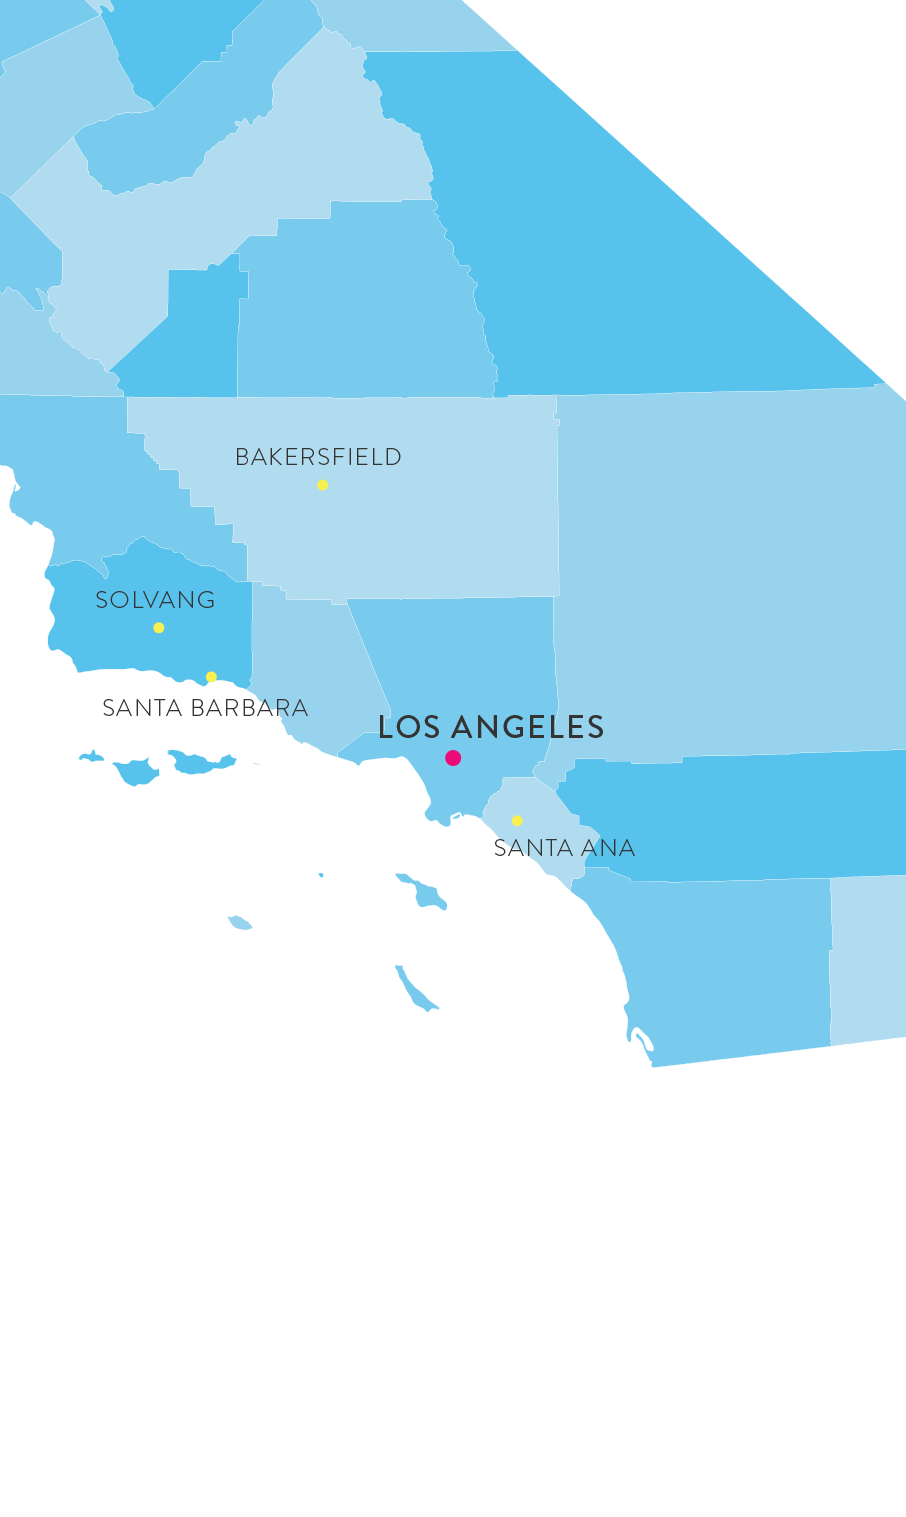
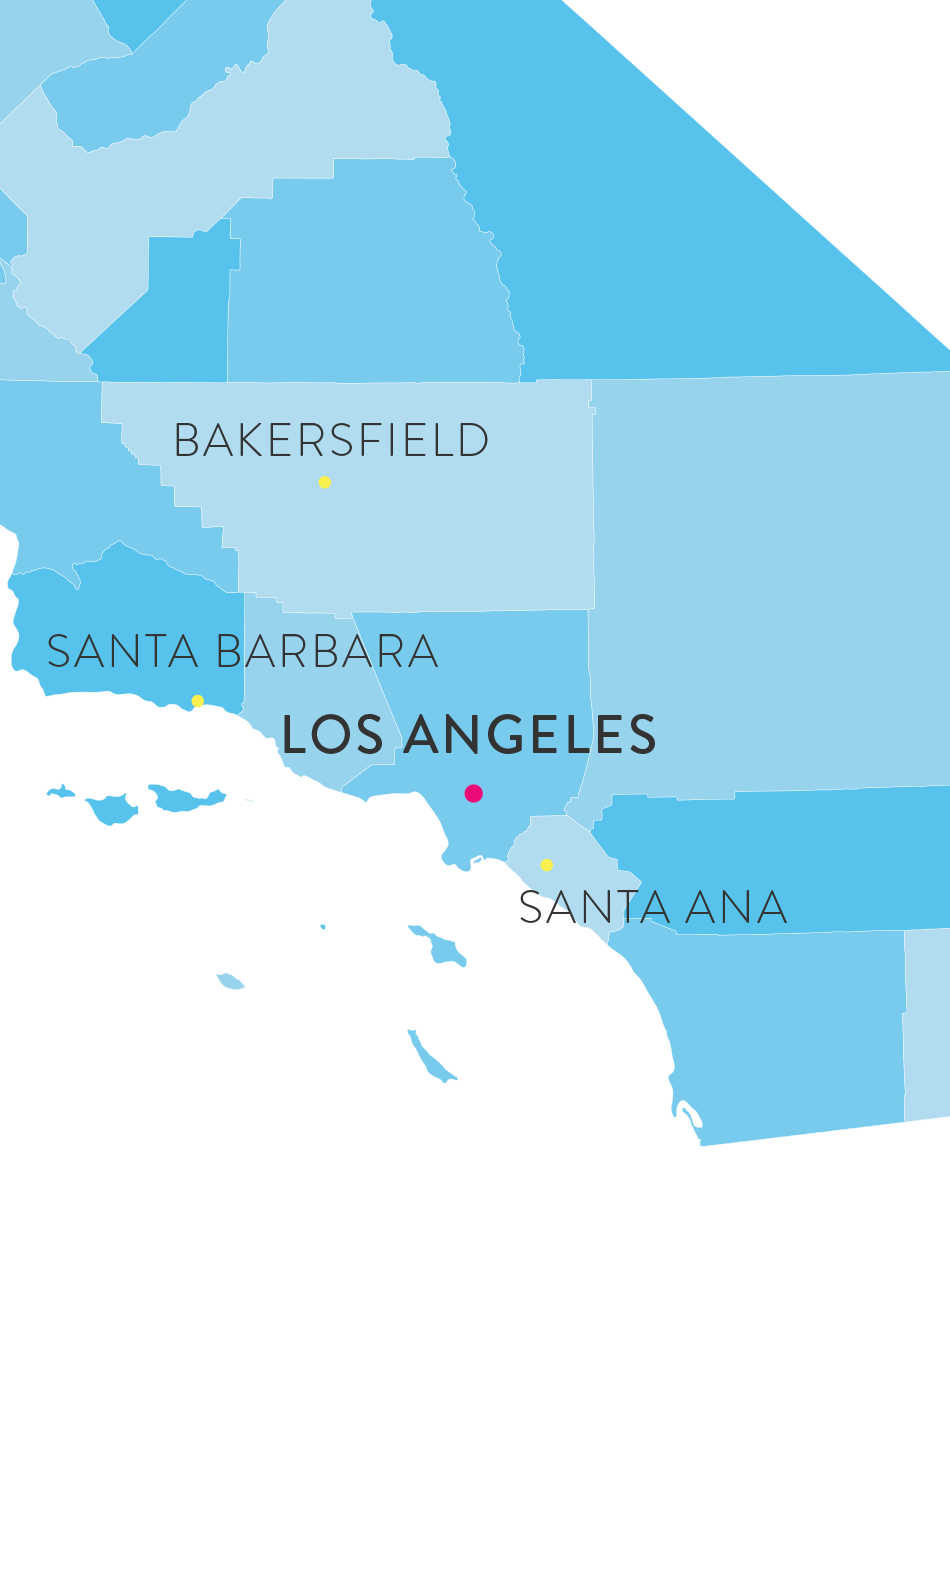
Zoom effect finished
Text sizes adjusted on all maps

Changed region(s): [[0.0, 0.0, 1.0, 0.7436], [0.4327, 0.5577, 0.4945, 0.6816], [0.2163, 0.5887, 0.2781, 0.6196]]

diff --git a/css/style.css b/css/style.css
@@ -674,7 +674,7 @@ a.read-more {
 	width: 100%;
 	background-color: #fff;
 	height: 525px;
-	max-width: 850px;
+	/*max-width: 850px;*/
 	margin-bottom: 70px;
 	box-shadow: 2px 4px 12px rgba(0,0,0,.2);
 	border: 2px solid #05bbff;
@@ -698,16 +698,18 @@ a.read-more {
 	background-color: #caf1ff;
 	text-align: center;
 	overflow: hidden;
+	cursor: pointer;
 }
 .container-fluid.article .blogger-profile-wrap .right-quadrant img {
 	display: inline-block;
-	transition: transform 0.85s;
+	transition: transform 1s;
 	transform: scale(1);
 	cursor: pointer;
 }
 .container-fluid.article .blogger-profile-wrap .right-quadrant img:hover {
-	-webkit-transform: scale(2.5);
-	transform: scale(2.5);
+	-webkit-transform: scale(2);
+	transform: scale(2);
+	cursor: pointer;
 }
 .container-fluid.article .blogger-profile-wrap .right-quadrant .btm-row {
 	background-image: url("../images/fake-border.jpg");

diff --git a/index.html b/index.html
@@ -21,6 +21,8 @@
 <script src="js/jquery-1.12.0.min.js"></script>
 <script src="js/script.js"></script>
 
+<!-- <script src="js/jquery.elevateZoom-3.0.8.min.js"></script> -->
+
 <!-- <script src="https://ajax.googleapis.com/ajax/libs/angularjs/1.4.9/angular.min.js"></script>
 <script src="https://maps.googleapis.com/maps/api/js?key=AIzaSyAZNhA-UO2M07yKZ4Khrj0OcvNEmXD6gI8&callback=initMap"
     async defer></script> -->
@@ -1202,6 +1204,7 @@
 							<h4>Temecula, CA</h4>
 						</div>
 						<img src="images/justine/justine-map-zoom.png">
+						<!-- <img id="zoom_05" src="images/justine/justine-map-zoom-sm.jpg" data-zoom-image="images/justine/justine-map-zoom-lg.jpg"/> -->
 					</div>
 				</div>
 			</div>

diff --git a/js/script.js b/js/script.js
@@ -367,6 +367,10 @@ $('[data-readmore-toggle]').click(function(e) {
   
 });
 
+// Inner zoom
+
+// $("#zoom_05").elevateZoom({ zoomType  : "inner", cursor: "crosshair" }); 
+
 // Smooth Scrolling
 // includes offset for #sticky-nav
 
